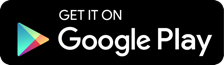
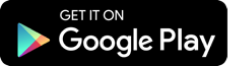
Fix image sizing

diff --git a/gatsby-site/src/pages/index.tsx b/gatsby-site/src/pages/index.tsx
@@ -3,7 +3,6 @@ import Layout from "../components/layout"
 import SEO from "../components/seo"
 import { graphql, Link } from "gatsby"
 import Img from "gatsby-image"
-import "./index.css"
 import Flow from "../components/home_page/flow"
 import Features from "../components/home_page/features"
 
@@ -43,24 +42,28 @@ const IndexPage = ({ data }) => (
         <strong>Join us</strong> on the mission.
       </p>
 
-      <a
-        style={{ lineHeight: 0, margin: 8 }}
-        href="https://play.google.com/store/apps/details?id=uk.orth.foodprint"
-      >
-        <Img
-          fixed={data.playStoreImage.childImageSharp.fixed}
-          alt="Available on Google Play Store button"
-        />
-      </a>
-      <a
-        href="https://apps.apple.com/us/app/foodprint/id1510153419?ls=1"
-        style={{ lineHeight: 0, margin: 8 }}
-      >
-        <Img
-          fixed={data.iosStoreImage.childImageSharp.fixed}
-          alt="Available on iOS Store button"
-        />
-      </a>
+      <div className="bob">
+        <a
+          style={{ lineHeight: 0, margin: 8 }}
+          href="https://play.google.com/store/apps/details?id=uk.orth.foodprint"
+        >
+          <Img
+            fixed={data.playStoreImage.childImageSharp.fixed}
+            style={{ height: "66px" }}
+            alt="Available on Google Play Store button"
+          />
+        </a>
+        <a
+          href="https://apps.apple.com/us/app/foodprint/id1510153419?ls=1"
+          style={{ lineHeight: 0, margin: 8 }}
+        >
+          <Img
+            fixed={data.iosStoreImage.childImageSharp.fixed}
+            style={{ height: "66px" }}
+            alt="Available on iOS Store button"
+          />
+        </a>
+      </div>
     </div>
     <div className="text-center mx-auto" style={{ maxWidth: 600 }}>
       <p>
